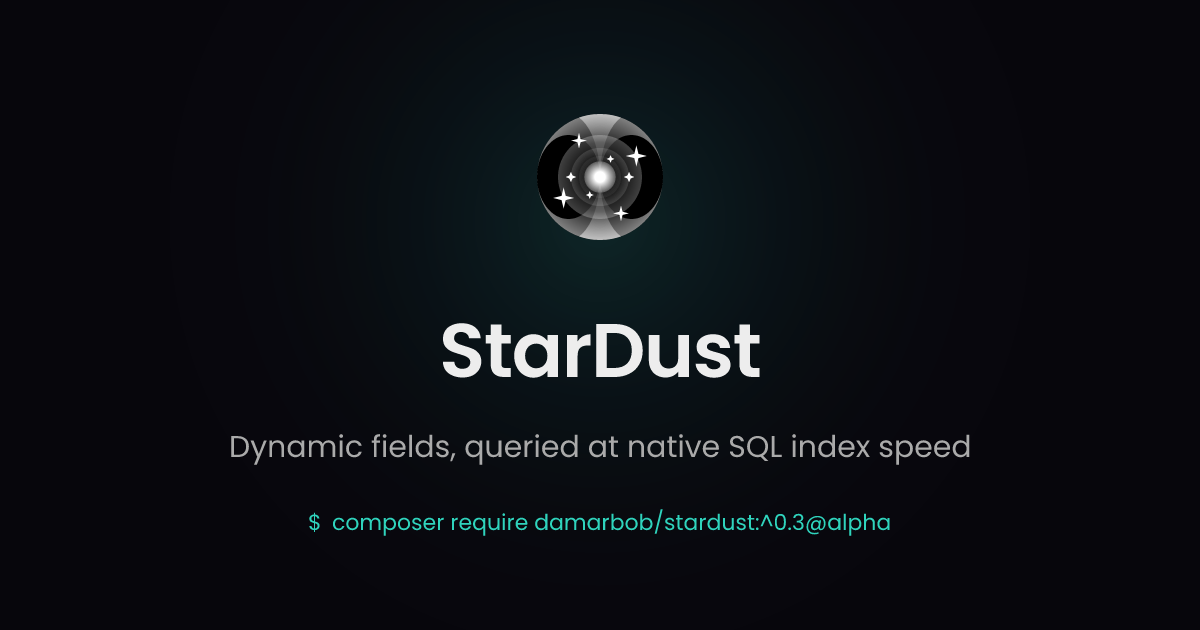
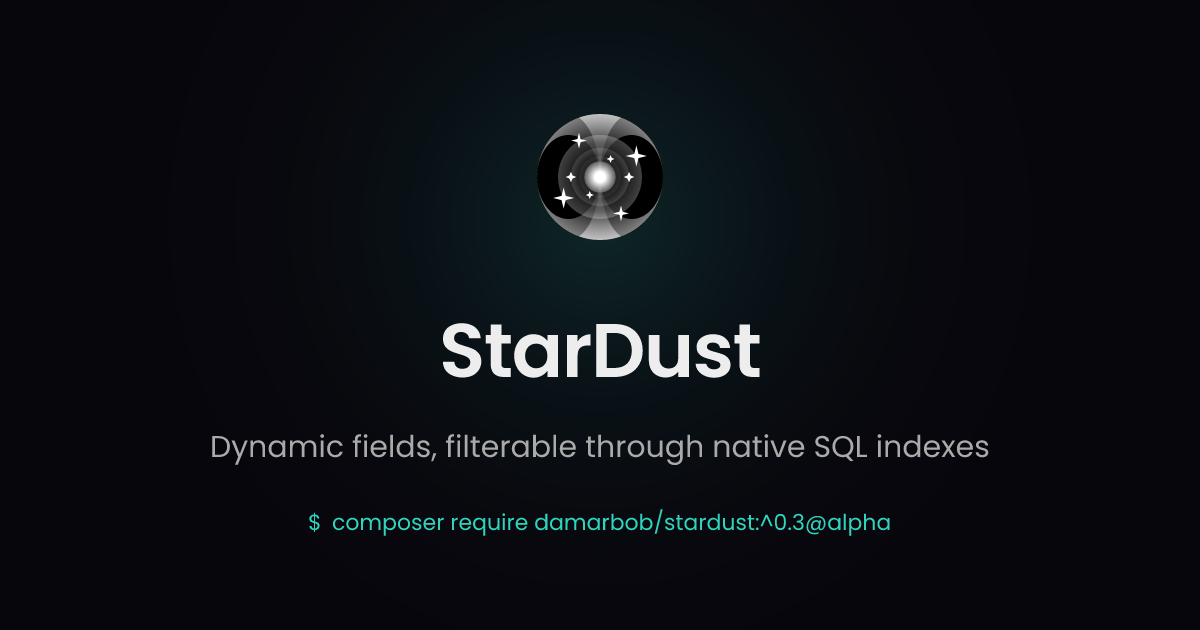
Replace the native SQL index speed claim
- Reword the tagline, hero, fit bullet, titles and descriptions in both languages.
- Update `scripts/gen-og-image.mjs` and regenerate `public/og-image.png`.

Changed region(s): [[0.1542, 0.6937, 0.8325, 0.754]]

diff --git a/app/(en)/layout.tsx b/app/(en)/layout.tsx
@@ -18,10 +18,10 @@ const poppins = Poppins({
 });
 
 const description =
-  'Schemaless dynamic fields, queried at native SQL index speed — no separate ' +
-  'search cluster, no EAV join swamp. A framework-neutral PHP engine for MySQL 8 and MariaDB.';
+  'Schemaless dynamic fields, filterable through native SQL indexes, with no separate ' +
+  'search cluster and no EAV join swamp. A framework-neutral PHP engine for MySQL 8 and MariaDB.';
 
-const title = 'StarDust — dynamic fields at native SQL index speed';
+const title = 'StarDust, dynamic fields filterable through native SQL indexes';
 
 export const metadata: Metadata = {
   metadataBase: new URL(SITE_URL),
@@ -83,7 +83,7 @@ export const metadata: Metadata = {
   },
   twitter: {
     card: 'summary_large_image',
-    title: 'StarDust — dynamic fields at native SQL index speed',
+    title: 'StarDust, dynamic fields filterable through native SQL indexes',
     description,
     images: ['/og-image.png'],
   },

diff --git a/app/id/layout.tsx b/app/id/layout.tsx
@@ -17,10 +17,10 @@ const poppins = Poppins({
 });
 
 const description =
-  'Field dinamis tanpa skema, diquery dengan kecepatan indeks SQL asli — tidak ada cluster ' +
-  'pencarian terpisah, tidak ada rawa join EAV. Engine PHP netral terhadap framework untuk MySQL 8 dan MariaDB.';
+  'Field dinamis tanpa skema, bisa difilter lewat indeks SQL asli, tanpa cluster ' +
+  'pencarian terpisah dan tanpa rawa join EAV. Engine PHP netral terhadap framework untuk MySQL 8 dan MariaDB.';
 
-const title = 'StarDust — field dinamis dengan kecepatan indeks SQL asli';
+const title = 'StarDust, field dinamis yang bisa difilter lewat indeks SQL asli';
 
 export const metadata: Metadata = {
   metadataBase: new URL(SITE_URL),
